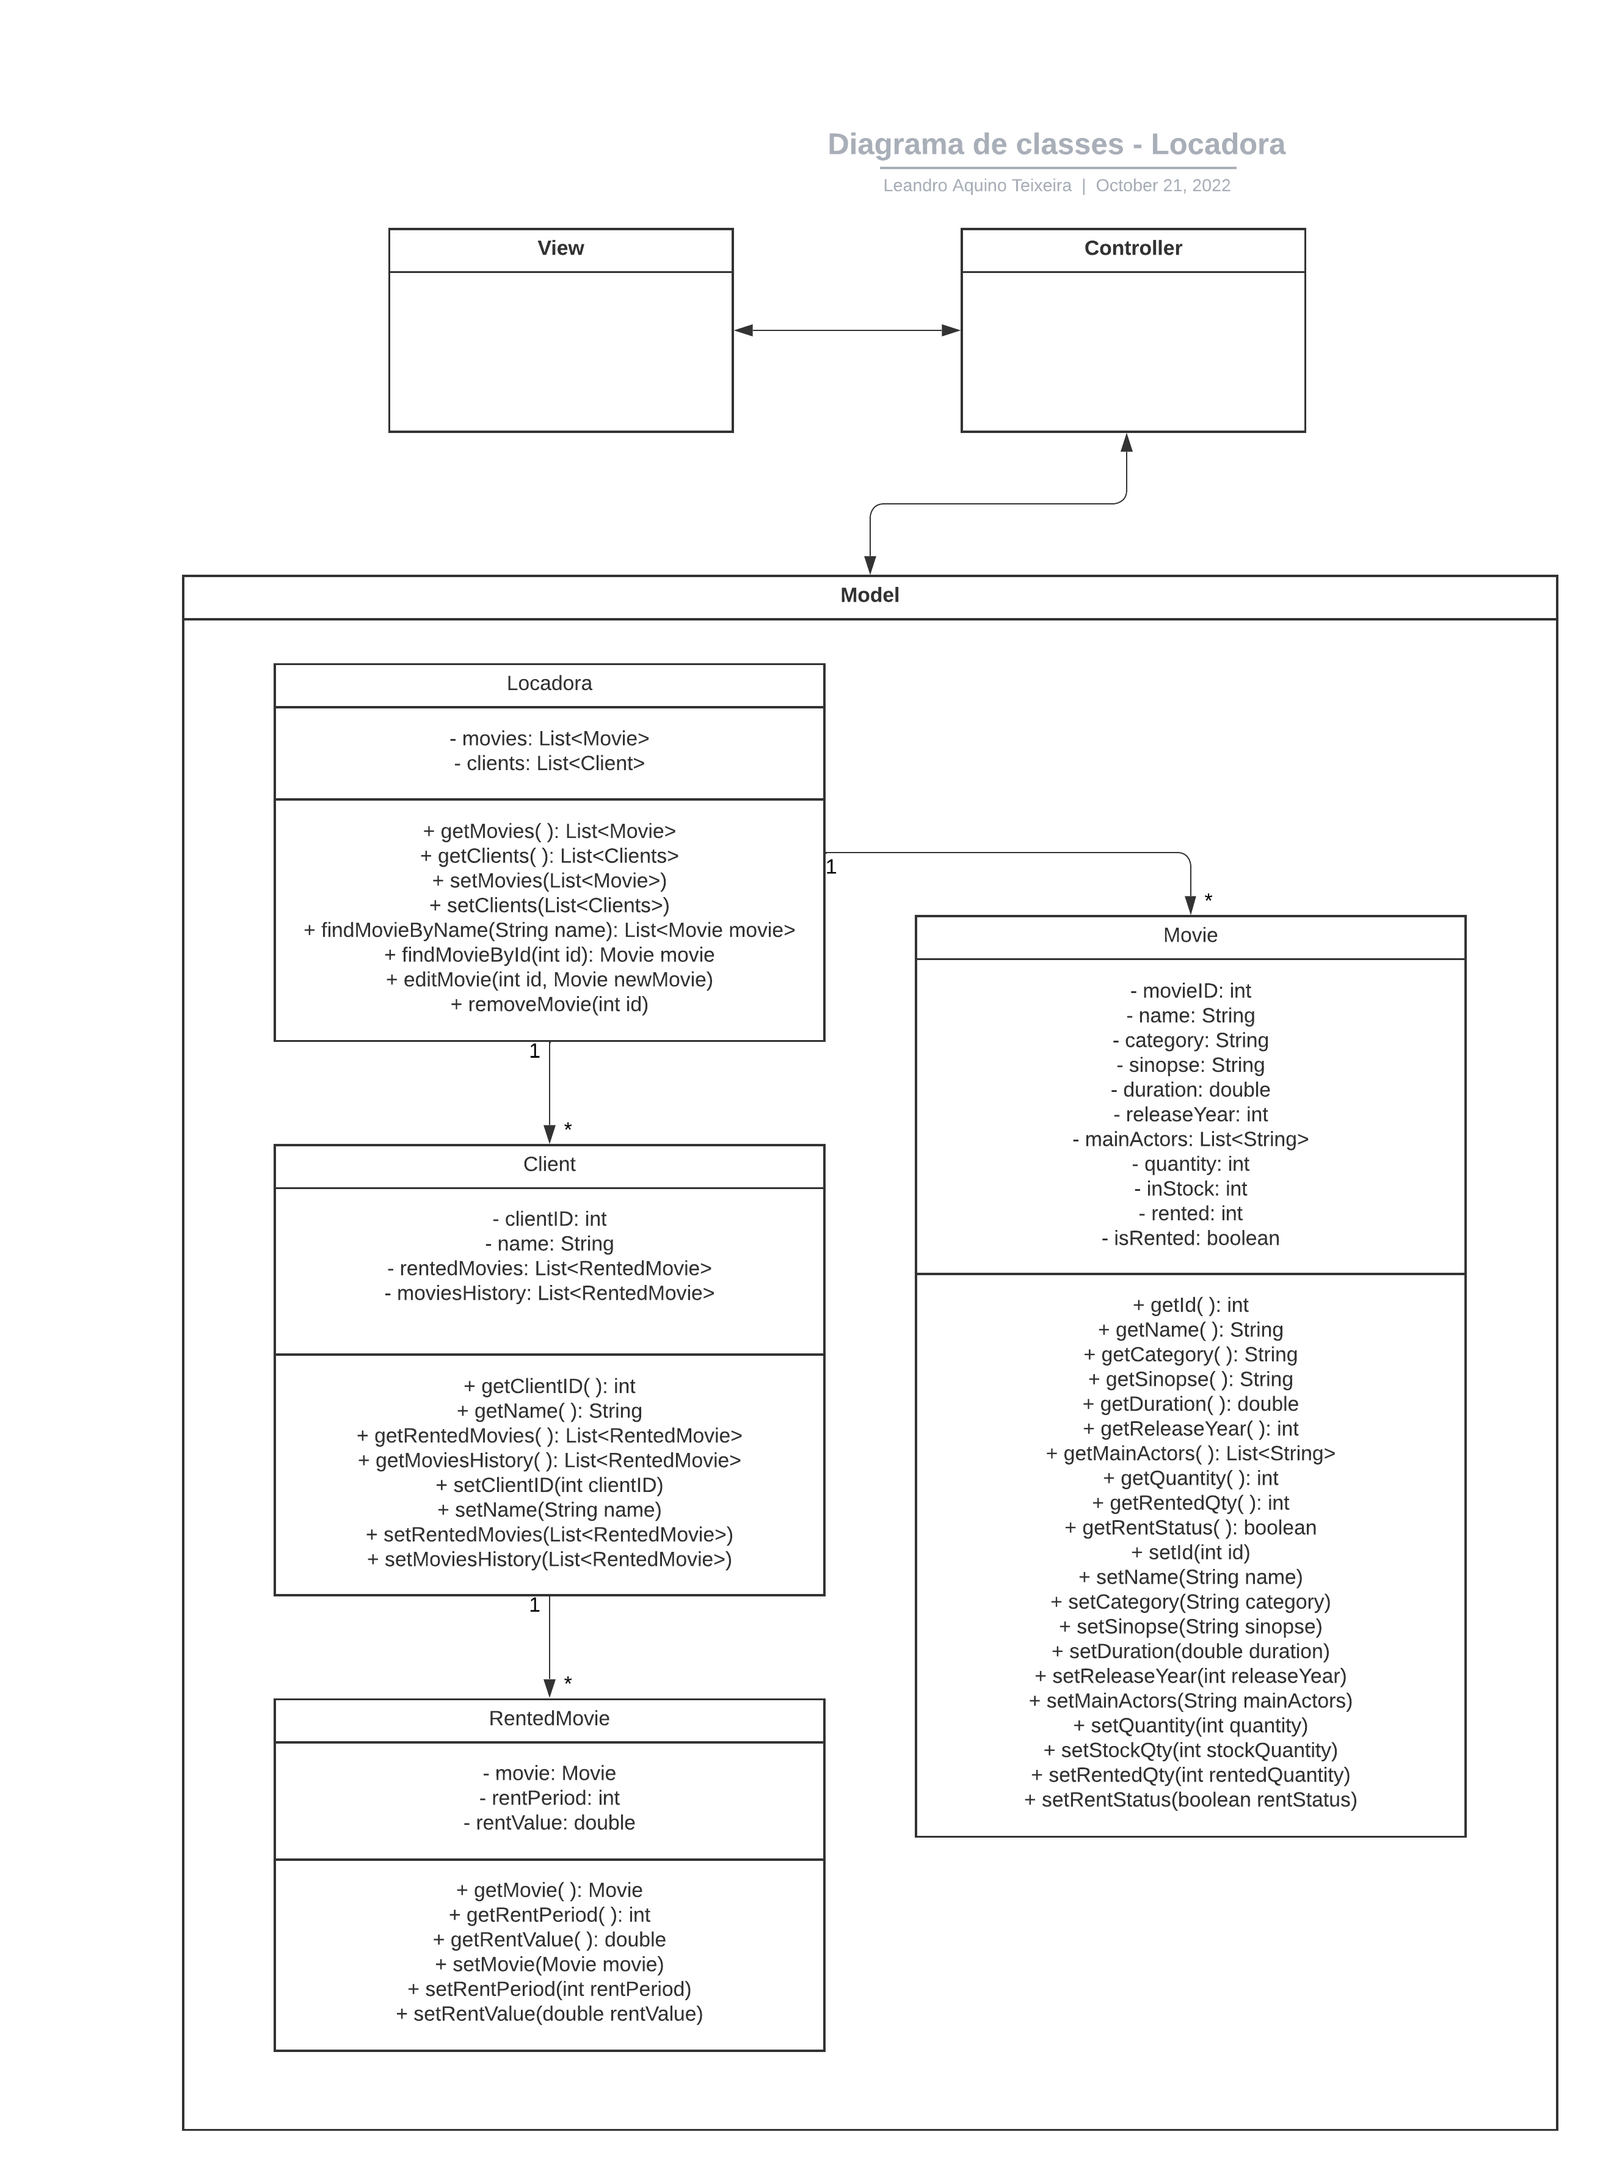
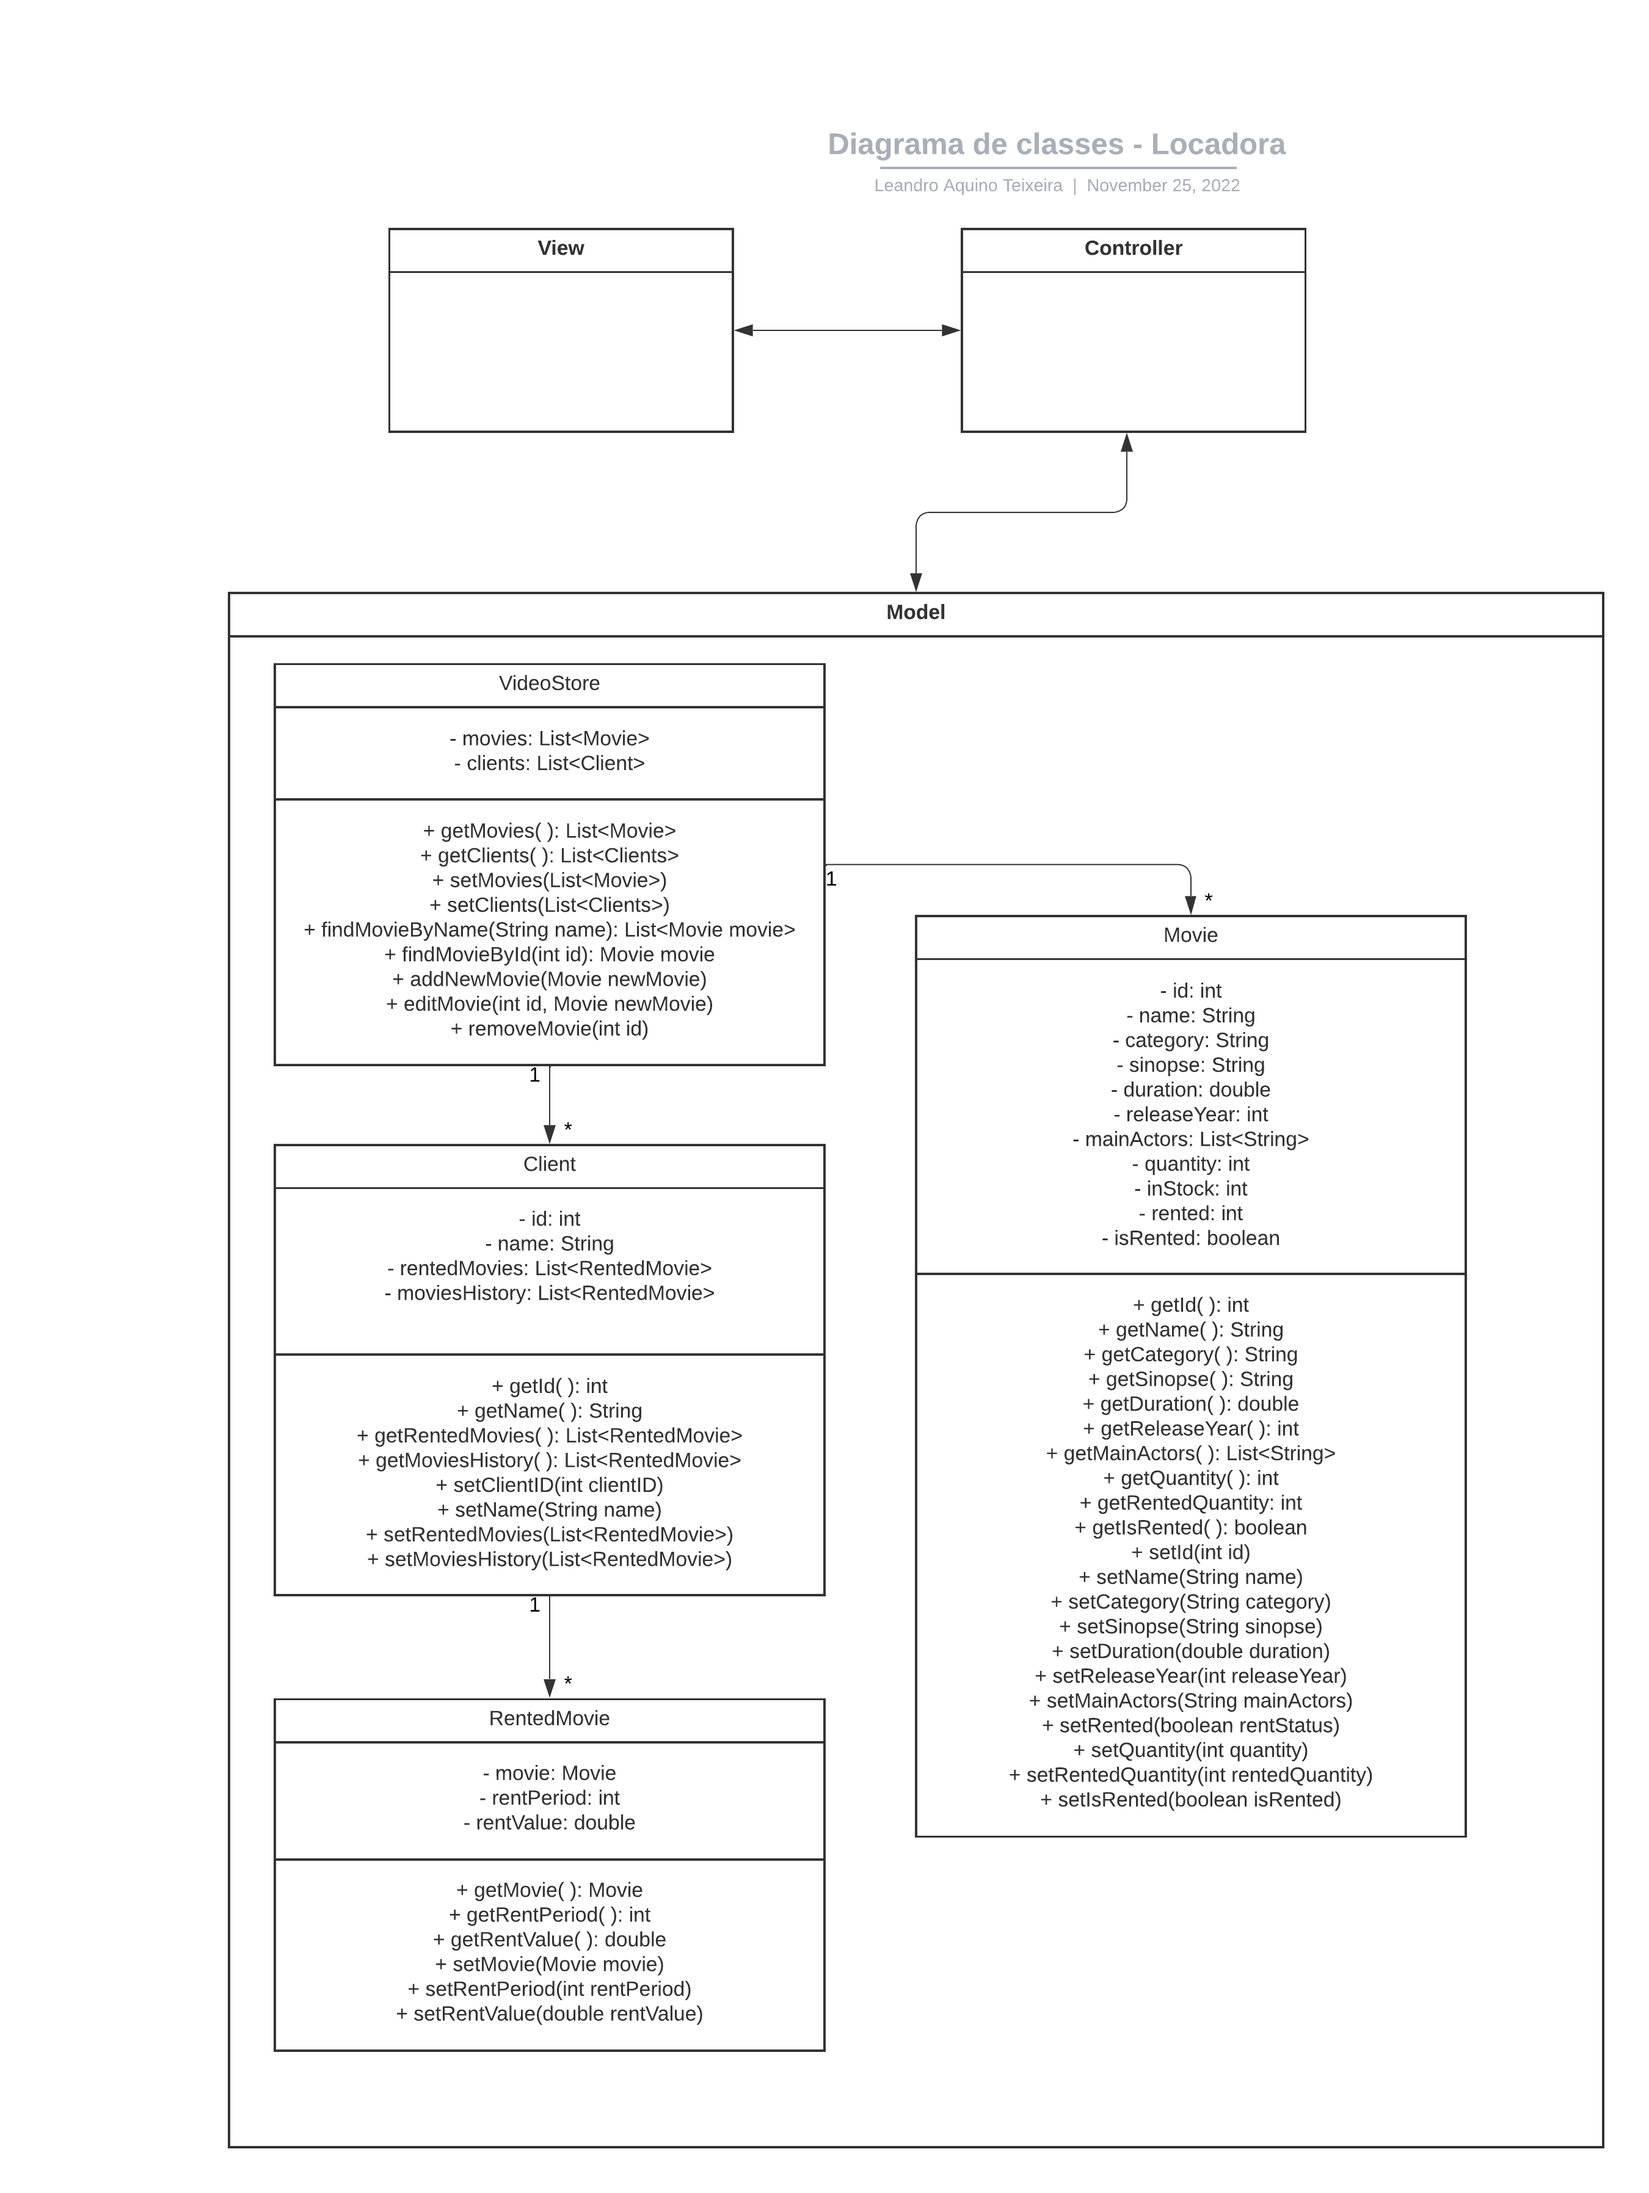
Updating UML Diagram

diff --git a/Engenharia-de-Software-I/videostore/src/br/com/leandroteixeira/view/Main.java b/Engenharia-de-Software-I/videostore/src/br/com/leandroteixeira/view/Main.java
@@ -2,6 +2,7 @@ package br.com.leandroteixeira.view;
 
 import br.com.leandroteixeira.controller.ConnectionFactory;
 import br.com.leandroteixeira.controller.Utils;
+import br.com.leandroteixeira.model.Movie;
 import br.com.leandroteixeira.model.VideoStore;
 
 public class Main {
@@ -9,6 +10,10 @@ public class Main {
     public static void main(String[] args) {
 
         VideoStore videoStore = new VideoStore(Utils.getMovies(), Utils.getCustomers());
+
+        Movie newMovie = new Movie(0, "Filme de teste", "Categoria de teste", "Sinopse de teste", 2.0, 2022, "Ator de teste 1, Ator de teste 2", 10, 5, 5, true);
+
+        videoStore.
 
     }
 
